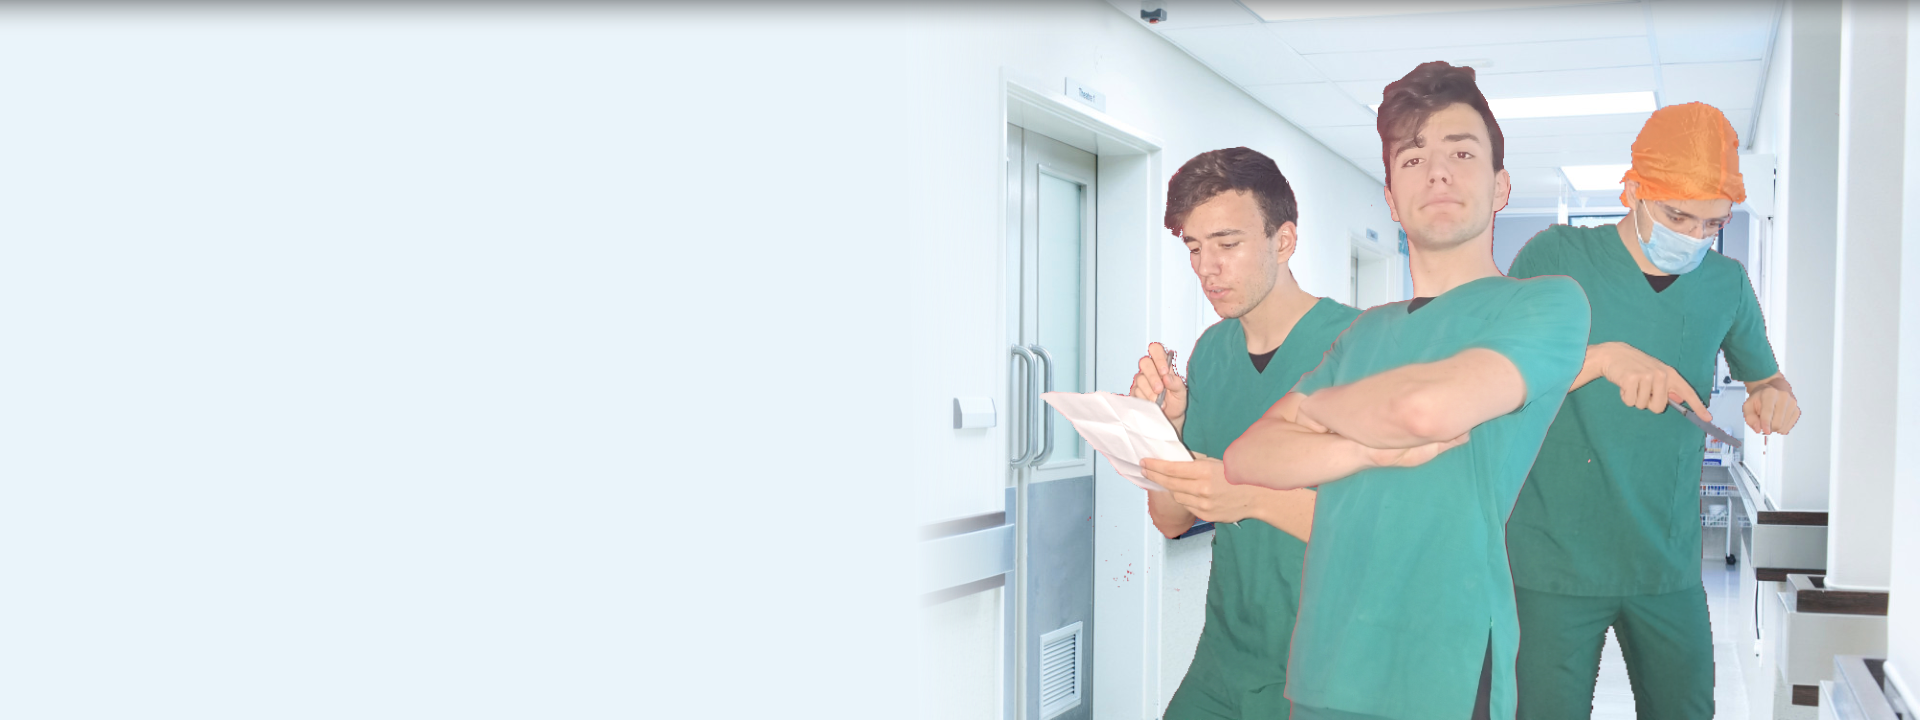
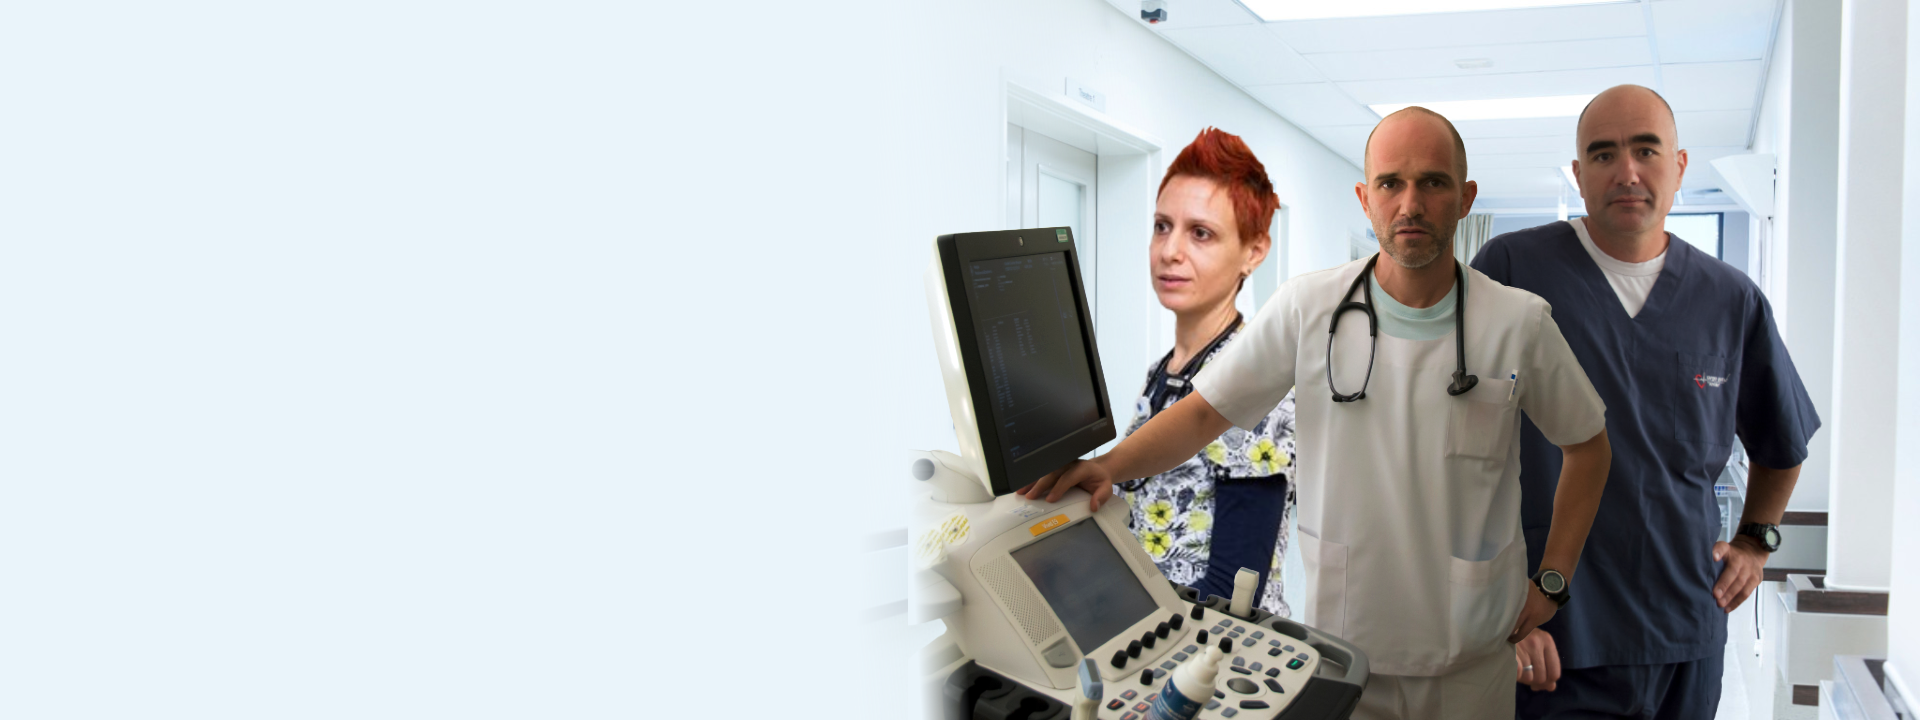
Update images and fix minor typos

diff --git a/src/routes/articles/[article].svelte b/src/routes/articles/[article].svelte
@@ -10,15 +10,6 @@
     // links (links[ {text '', href ''}, ... ])
     afterNavigate(() => {
         switch ($page.params.article) {
-            case "covid.svelte":
-                itemsToDisplay = [];
-                itemsToDisplay.push({
-                    type: 'text',
-                    heading: 'Ковид',
-                    paragraphs: ['Прегледите в Кардиологичен Център Бургас са разпределени през голям интервал, осигуряващ възможност за проветряване и дезинфекция на помещенията и апаратурата след всеки преглед, както и избягване засичането на пациентите един с друг.', 'Прегледите в Кардиологичен Център Бургас са разпределени през голям интервал, осигуряващ възможност за проветряване и дезинфекция на помещенията и апаратурата след всеки преглед, както и избягване засичането на пациентите един с друг. Lorem, ipsum dolor sit amet consectetur adipisicing elit. Iure dolorum corporis odit ea ut fuga minus non omnis amet a harum, temporibus, necessitatibus fugiat, quia aut eaque iste tempore assumenda.'],
-                    supplementPhoto: '/covid3.png'
-                });
-                break;
             case "photos.svelte":
                 itemsToDisplay = [];
                 itemsToDisplay.push({

diff --git a/src/routes/index.svelte b/src/routes/index.svelte
@@ -10,7 +10,7 @@
 <Group />
 <div class="centering">
     <HomeSection routeTo={`articles/photos.svelte`} heading="Кардио център Бургас" additionaltext1={additionaltexts[0]} additionaltext2={additionaltexts[1]} imageSource={"/bonusimage1.png"} infobutton={'Още снимки'}/>
-    <HomeSection routeTo={`articles/covid.svelte`} heading="Мерки против COVID-19" headingSize="2rem" additionaltext1={additionaltexts[2]} additionaltext2={'Така може да се използва Кардио Центъра дори в тези моменти'} imageSource={'/covid.png'} infobutton={''} />
+    <HomeSection routeTo={`articles/covid.svelte`} heading="Мерки против COVID-19" headingSize="2rem" additionaltext1={additionaltexts[2]} additionaltext2={'Така може да се използва Кардио Центъра дори в тези моменти на глобална пандемия.'} imageSource={''} infobutton={''} />
 </div>
 <div class="center">
     <Reviews />

diff --git a/src/routes/about.svelte b/src/routes/about.svelte
@@ -4,9 +4,9 @@
 
 <div class="grid">
     <PageHeading heading={"Екип"} underHeading={" "} />
-    <img  id="photo1" class="photo" src="istinskidoktor.png" alt="">
-    <img  id="photo2" class="photo" src="legitdoc2.png" alt="">
-    <img  id="photo3" class="photo" src="istinskidoktor.png" alt="">
+    <img  id="photo1" class="photo" src="jivomir.png" alt="">
+    <img  id="photo2" class="photo" src="raleva.png" alt="">
+    <img  id="photo3" class="photo" src="eduard.png" alt="">
     <div class="background" id="bg1"></div>
     <div class="background" id="bg2"></div>
     <div class="background" id="bg3"></div>

diff --git a/src/routes/appointment.svelte b/src/routes/appointment.svelte
@@ -44,7 +44,7 @@
     }
 
     strong, .icons {
-        color: hsl(0, 0, 20%);
+        color: hsl(0, 0%, 20%);
     }
 
     h3 {
